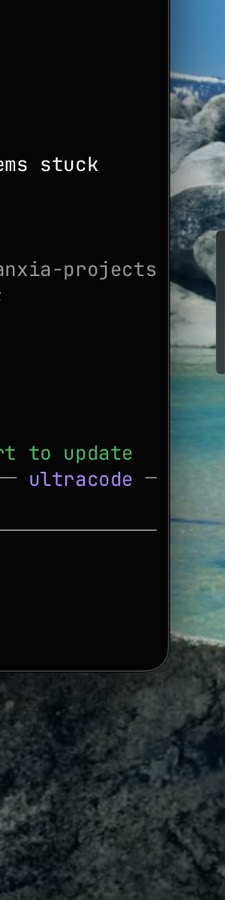
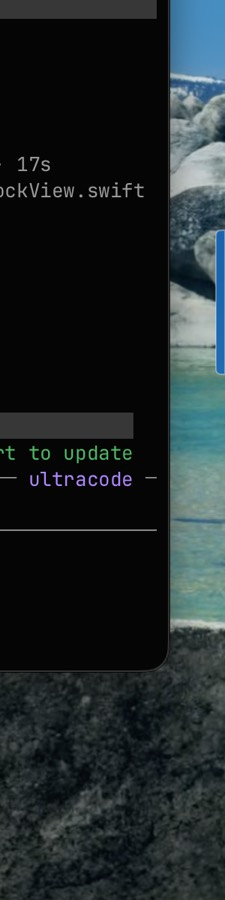
clp(5): the collapsed sliver is accent-washed with a bright edge, and its width is configurable (default 10pt)
ClauthFrostedSurface tells the folded berth apart (DockBerthShape.openness < 0.5): thinner black
wash, an accent wash when neutral, 70% alert wash otherwise, a 1pt bright edge — a bare frost
sliver vanished against the wallpaper (AX: 「有点太不显眼了」). ClauthVisibility.sliverWidth
(4…24pt, default 10; upstream 6) drives DockLayout.collapsedWidth and collapsedHitWidth (never
below 20pt), 2 hook lines → 53/56; slider in Settings → clauth → Rail (AX: 「做成 configurable」).
154 XCTest, verify exit 0; reinstalled.

diff --git a/Sources/Pulse/Clauth/ClauthVisibility.swift b/Sources/Pulse/Clauth/ClauthVisibility.swift
@@ -115,6 +115,20 @@ final class ClauthVisibility {
         }
     }
 
+    /// The collapsed sliver's width in points (upstream draws 6). The hit
+    /// area grows with it. AX 2026-09-03: 「可以增加点 width，做成 configurable」.
+    static let sliverWidthRange: ClosedRange<Double> = 4...24
+    static let defaultSliverWidth: Double = 10
+
+    var sliverWidth: Double {
+        didSet {
+            let clamped = min(max(sliverWidth, Self.sliverWidthRange.lowerBound), Self.sliverWidthRange.upperBound)
+            if clamped != sliverWidth { sliverWidth = clamped; return }
+            guard sliverWidth != oldValue else { return }
+            defaults?.set(sliverWidth, forKey: Key.sliverWidth)
+        }
+    }
+
     private let defaults: UserDefaults?
 
     /// `defaults: nil` keeps the state in memory only (tests).
@@ -127,7 +141,8 @@ final class ClauthVisibility {
         innerRing: Bool? = nil,
         activity: Activity? = nil,
         captionStyle: CaptionStyle? = nil,
-        frostedSurface: Bool? = nil
+        frostedSurface: Bool? = nil,
+        sliverWidth: Double? = nil
     ) {
         self.defaults = defaults
         self.hiddenAccounts = hiddenAccounts ?? Set(defaults?.stringArray(forKey: Key.hidden) ?? [])
@@ -140,6 +155,8 @@ final class ClauthVisibility {
         self.activity = activity ?? (defaults?.string(forKey: Key.activity)).flatMap(Activity.init(rawValue:)) ?? .off
         self.captionStyle = captionStyle ?? (defaults?.string(forKey: Key.captionStyle)).flatMap(CaptionStyle.init(rawValue:)) ?? .email
         self.frostedSurface = frostedSurface ?? (defaults?.object(forKey: Key.frostedSurface) as? Bool ?? true)
+        let storedWidth = sliverWidth ?? (defaults?.object(forKey: Key.sliverWidth) as? Double ?? Self.defaultSliverWidth)
+        self.sliverWidth = min(max(storedWidth, Self.sliverWidthRange.lowerBound), Self.sliverWidthRange.upperBound)
     }
 
     /// The rail's shown accounts, from the UNFILTERED user order so a drag
@@ -222,5 +239,6 @@ final class ClauthVisibility {
         static let activity = "clauth.activity"
         static let captionStyle = "clauth.captionStyle"
         static let frostedSurface = "clauth.frostedSurface"
+        static let sliverWidth = "clauth.sliverWidth"
     }
 }

diff --git a/Tests/PulseTests/ClauthRailTests.swift b/Tests/PulseTests/ClauthRailTests.swift
@@ -165,4 +165,28 @@ final class ClauthRailTests: XCTestCase {
         let again = ClauthVisibility(defaults: defaults)
         XCTAssertFalse(again.railCaptions); XCTAssertFalse(again.innerRing); XCTAssertEqual(again.activity, .all); XCTAssertEqual(again.captionStyle, .name); XCTAssertFalse(again.frostedSurface)
     }
+
+    func testSliverWidthIsClampedPersistedAndDrivesTheCollapsedSizes() {
+        let suite = "clp-sliver-\(UUID().uuidString)"
+        let defaults = UserDefaults(suiteName: suite)!
+        defer { defaults.removePersistentDomain(forName: suite) }
+        let state = ClauthVisibility(defaults: defaults)
+        XCTAssertEqual(state.sliverWidth, 10, "wider than upstream's 6 by default")
+        state.sliverWidth = 40
+        XCTAssertEqual(state.sliverWidth, 24, "clamped to the range")
+        state.sliverWidth = 1
+        XCTAssertEqual(state.sliverWidth, 4)
+        state.sliverWidth = 16
+        XCTAssertEqual(ClauthVisibility(defaults: defaults).sliverWidth, 16, "persisted")
+        // The shared instance is what DockLayout reads; the hit area never shrinks below upstream's 20pt.
+        let before = ClauthVisibility.shared.sliverWidth
+        defer { ClauthVisibility.shared.sliverWidth = before }
+        ClauthVisibility.shared.sliverWidth = 6
+        XCTAssertEqual(DockLayout.collapsedWidth, 6 * PanelMetrics.scale)
+        XCTAssertEqual(DockLayout.collapsedHitWidth, 20 * PanelMetrics.scale)
+        ClauthVisibility.shared.sliverWidth = 24
+        XCTAssertEqual(DockLayout.collapsedWidth, 24 * PanelMetrics.scale)
+        XCTAssertEqual(DockLayout.collapsedHitWidth, 32 * PanelMetrics.scale, "the hit area grows with the sliver")
+        XCTAssertTrue(PanelHitArea.stripIsContainedInRail(), "the sliver's hit area still sits inside the rail")
+    }
 }

diff --git a/Sources/Pulse/Clauth/ClauthFrostedSurface.swift b/Sources/Pulse/Clauth/ClauthFrostedSurface.swift
@@ -10,15 +10,25 @@ struct ClauthFrostedSurface<S: Shape>: View {
     let shape: S
     var tint: Color?
 
+    /// The berth folded to its sliver. A neutral sliver gets an accent wash
+    /// and a brighter edge so it can be found at the screen edge — a bare
+    /// frost there was too faint (AX 2026-09-03: 「有点太不显眼了」); the
+    /// open rail stays plain dark frost.
+    private var isSliver: Bool {
+        (shape as? DockBerthShape).map { $0.openness < 0.5 } ?? false
+    }
+
     var body: some View {
         ZStack {
             ClauthVisualEffect()
                 .clipShape(shape)
-            shape.fill(Color.black.opacity(0.38))
+            shape.fill(Color.black.opacity(isSliver ? 0.2 : 0.38))
             if let tint {
-                shape.fill(tint.opacity(0.55))
+                shape.fill(tint.opacity(isSliver ? 0.7 : 0.55))
+            } else if isSliver {
+                shape.fill(Color.accentColor.opacity(0.55))
             }
-            shape.stroke(Color.white.opacity(0.09), lineWidth: 0.5)
+            shape.stroke(Color.white.opacity(isSliver ? 0.35 : 0.09), lineWidth: isSliver ? 1 : 0.5)
         }
     }
 }

diff --git a/Sources/Pulse/Clauth/ClauthSettingsPane.swift b/Sources/Pulse/Clauth/ClauthSettingsPane.swift
@@ -91,6 +91,23 @@ struct ClauthSettingsPane: View {
             SettingsRowDivider()
 
             SettingsRow(
+                String.localized("Collapsed width"),
+                subtitle: String.localized("How wide the sliver is while the rail is hidden — \("\(Int(ClauthVisibility.shared.sliverWidth))") points.")
+            ) {
+                Slider(
+                    value: Binding(
+                        get: { ClauthVisibility.shared.sliverWidth },
+                        set: { ClauthVisibility.shared.sliverWidth = $0.rounded() }
+                    ),
+                    in: ClauthVisibility.sliverWidthRange,
+                    step: 1
+                )
+                .frame(width: SettingsLayout.controlWidth)
+            }
+
+            SettingsRowDivider()
+
+            SettingsRow(
                 String.localized("Labels under rings"),
                 subtitle: String.localized("The account under each ring, the active one in a capsule. Widens the rail; side rails only.")
             ) {

diff --git a/Sources/Pulse/UsageDockView.swift b/Sources/Pulse/UsageDockView.swift
@@ -200,9 +200,9 @@ enum DockLayout {
     /// the edge always lands on it. The tracking area around it is wider than
     /// the drawing, so approaching from inside works without having to arrive
     /// exactly.
-    static var collapsedWidth: CGFloat { 6 * PanelMetrics.scale }
+    static var collapsedWidth: CGFloat { ClauthVisibility.shared.sliverWidth * PanelMetrics.scale }
     static var collapsedHeight: CGFloat { 96 * PanelMetrics.scale }
-    static var collapsedHitWidth: CGFloat { 20 * PanelMetrics.scale }
+    static var collapsedHitWidth: CGFloat { max(20, ClauthVisibility.shared.sliverWidth + 8) * PanelMetrics.scale }
 
     /// The sliver, laid the way `axis` lays the rail: 6pt of it against the
     /// screen edge and 96pt along it, whichever way round that falls.

diff --git a/.agent/DECISIONS.md b/.agent/DECISIONS.md
@@ -39,3 +39,5 @@ each: date · what · why · cost to reverse.
 - 2026-09-03 · The installed bundle imported the bare build's `Pulse` defaults domain on its first run (`LegacyDefaults.migrateIfNeeded`, upstream's loose-build → bundle migration), so the sandbox recipe leaked into AX's install: auto-collapse OFF, `enabledProviders` = claudeCode+codex only, `launchAtLogin.decided` = 1, `hasRun`, `offeredProviders` (AX: 「side panel 怎么不会自动隐藏」) · fixed by deleting `settings.autoCollapse` from `io.github.qunqin24.Pulse` (back to upstream's ON) and wiping the `Pulse` domain; the remaining imported keys are benign and left (only the two hidden primaries enabled — other providers are a Settings switch away; no login item registered automatically — Settings → General if wanted). RULE from now on: `defaults delete Pulse` after every sandbox session and before any install · reverse: `defaults delete io.github.qunqin24.Pulse` for a fully fresh install.
 - 2026-09-03 · Panel surfaces are frosted dark glass by default (`ClauthFrostedSurface`: `NSVisualEffectView` HUD material, behind-window blending, dark appearance, a 38 % black wash, alert colour as a 55 % wash) — a third surface beside upstream's flat black and Liquid Glass, chosen in the `PanelSurface` body (2 hook lines) and only when Liquid Glass is off (AX: 「隐藏时候这个环很难看… 做成毛玻璃半透明的 frosted dark」 — the collapsed sliver as a solid colour block) · off switch in Settings → clauth → Rail · reverse: the switch.
 - 2026-09-03 · The collapsed sliver's alert colour comes from the ACTIVE slot of each harness only (`ClauthRingExtras.alertWindows` returns nothing for a clauth ring that is not its harness's active account; primaries keep upstream's headline rule) · AX: 「只是一个账号没了 不需要报警吧」 — a spent backup is the daemon's rotation business; the rail collapsed red because one codex backup was at 100 % · reverse: drop the `isActive` guard.
+- 2026-09-03 · The collapsed sliver gets an accent wash, a brighter edge and a thinner black wash than the open rail (`ClauthFrostedSurface.isSliver` reads `DockBerthShape.openness < 0.5`); alert states keep their colour as a 70 % wash · AX: 「感觉现在有点太不显眼了」 — a bare frost sliver vanished against the wallpaper · reverse: the `isSliver` branches.
+- 2026-09-03 · The sliver's width is configurable (`ClauthVisibility.sliverWidth`, 4…24 pt, default 10 — upstream draws 6); `DockLayout.collapsedWidth` reads it and `collapsedHitWidth` grows with it (never below upstream's 20 pt), 2 hook lines → 53/56 · AX: 「可以增加点 width，做成 configurable」 · reverse: the slider in Settings → clauth → Rail.

diff --git a/.agent/PROGRESS.md b/.agent/PROGRESS.md
@@ -61,4 +61,4 @@ Closeout: `Docs/clauth/CLP-CLOSEOUT-2026-09-03.md` (committed 02e7594; test-orde
 
 ## CLP-5 — rail semantics: labels, active cue, inner ring — DONE 2026-09-03 (final shape after AX's four follow-ups + the review round)
 Files: `Sources/Pulse/Clauth/ClauthRail.swift` (`ClauthCaption`, `ClauthRailCaption`, `ClauthRingExtras`), `ClauthVisibility` (+ `railCaptions` / `innerRing` / `activity`, `showsActivity`), `ClauthRingMenuModifier` applies the extras to every ring, clauth pane "Rail" group; tests `ClauthRailTests` (7). Hooks +11 → **45 / 56**.
-Final shape: outer ring = the WEEK (default pin `7d`), inner arc = the 5h window (single ring for weekly-only); label under each ring = the email's local part (profile name one switch away), the active account's in a solid accent capsule; upstream's working mark off by default (Off / Active / All). Review round folded (13 findings, DECISIONS). Evidence: `Docs/clauth/evidence/clp5/rail-captions-inner-ring-active-capsule.jpg` (sandbox), `installed-rail-email-captions.jpg` (real: `xingfanxia` · `ax0xdev` · `xingfanxia`); verify exit 0, 153 XCTest, hooks 49/56. Install-time leak found and fixed: the bundle imports the bare `Pulse` domain once (DECISIONS) — `defaults delete Pulse` before installs from now on. Then: frosted dark surface for rail + card + sliver (`ClauthFrostedSurface`, 2 hook lines → 51/56), and the sliver's alert colour from the active slots only (`rail-frosted-dark.jpg`, `card-frosted-dark.jpg`, `sliver-frosted-neutral.jpg`).
+Final shape: outer ring = the WEEK (default pin `7d`), inner arc = the 5h window (single ring for weekly-only); label under each ring = the email's local part (profile name one switch away), the active account's in a solid accent capsule; upstream's working mark off by default (Off / Active / All). Review round folded (13 findings, DECISIONS). Evidence: `Docs/clauth/evidence/clp5/rail-captions-inner-ring-active-capsule.jpg` (sandbox), `installed-rail-email-captions.jpg` (real: `xingfanxia` · `ax0xdev` · `xingfanxia`); verify exit 0, 153 XCTest, hooks 49/56. Install-time leak found and fixed: the bundle imports the bare `Pulse` domain once (DECISIONS) — `defaults delete Pulse` before installs from now on. Then: frosted dark surface for rail + card + sliver (`ClauthFrostedSurface`, 2 hook lines → 51/56), and the sliver's alert colour from the active slots only; the sliver accent-washed with a bright edge and a configurable width (default 10 pt) — `rail-frosted-dark.jpg`, `card-frosted-dark.jpg`, `sliver-frosted-neutral.jpg`, `sliver-frosted-alert.jpg`. Hooks 53/56.

diff --git a/Docs/clauth/PLAN.md b/Docs/clauth/PLAN.md
@@ -87,8 +87,9 @@ Asked after CLP-RUN closed: 「需要 somehow indicate active account for claude
 - **Weekly outside, 5h inside** — the default pin is now the week on both harnesses (`ClauthMapping.defaultPin` = `7d`, AX 「外圈 weekly」), so upstream's ring and the percent figure show the weekly limit; `ClauthRingExtras.innerArc` draws the other unscoped window (the 5h) as a thinner arc inside it; a weekly-only plan stays a single ring; a scoped window never; a user pin on 5h flips the two. Colour by the same `UsageTint`. Off switch "5-hour as an inner ring".
 - **Working mark** — upstream's white "CLI is working" mark is per PROVIDER (transcript writes), so a rail of several accounts spun on every ring while any agent ran. Policy in `ClauthVisibility.activity` (Off / Active / All, default Active): the hook on `RailEntry.isRunning` ANDs it with `ClauthVisibility.showsActivity(for:)`.
 - **Frosted dark surface** — `ClauthFrostedSurface` (NSVisualEffectView HUD material, dark, behind-window) as a third `PanelSurface` between flat black and Liquid Glass, on by default; the collapsed sliver's alert colour is a translucent wash. Off switch "Frosted dark surface".
+- **Sliver** — accent-washed with a bright edge while collapsed so it can be found at the edge; width configurable 4…24 pt (default 10; upstream 6), the hit area following it.
 - **Alert from the active slots only** — the collapsed sliver colours from each harness's active account (`ClauthRingExtras.alertWindows`), never from a spent backup.
-- Hooks (final 51/56; the list below is the first cut): `PanelMetrics.showsCaptions` + setter 3 · `DockLayout` width 1, `captionHeight` 1, `itemLength` 1, `ringOffsetInItem` 1 · `UsageDockItem` caption 2 · `FloatingUsagePanelView` activity 1 + rebuild id 1. Tests: `ClauthRailTests` (7). Evidence: `evidence/clp5/`.
+- Hooks (final 53/56; the list below is the first cut): `PanelMetrics.showsCaptions` + setter 3 · `DockLayout` width 1, `captionHeight` 1, `itemLength` 1, `ringOffsetInItem` 1 · `UsageDockItem` caption 2 · `FloatingUsagePanelView` activity 1 + rebuild id 1. Tests: `ClauthRailTests` (7). Evidence: `evidence/clp5/`.
 
 ### CLP-4 — retire ccsbar (human-gated, NOT in this goal)
 
